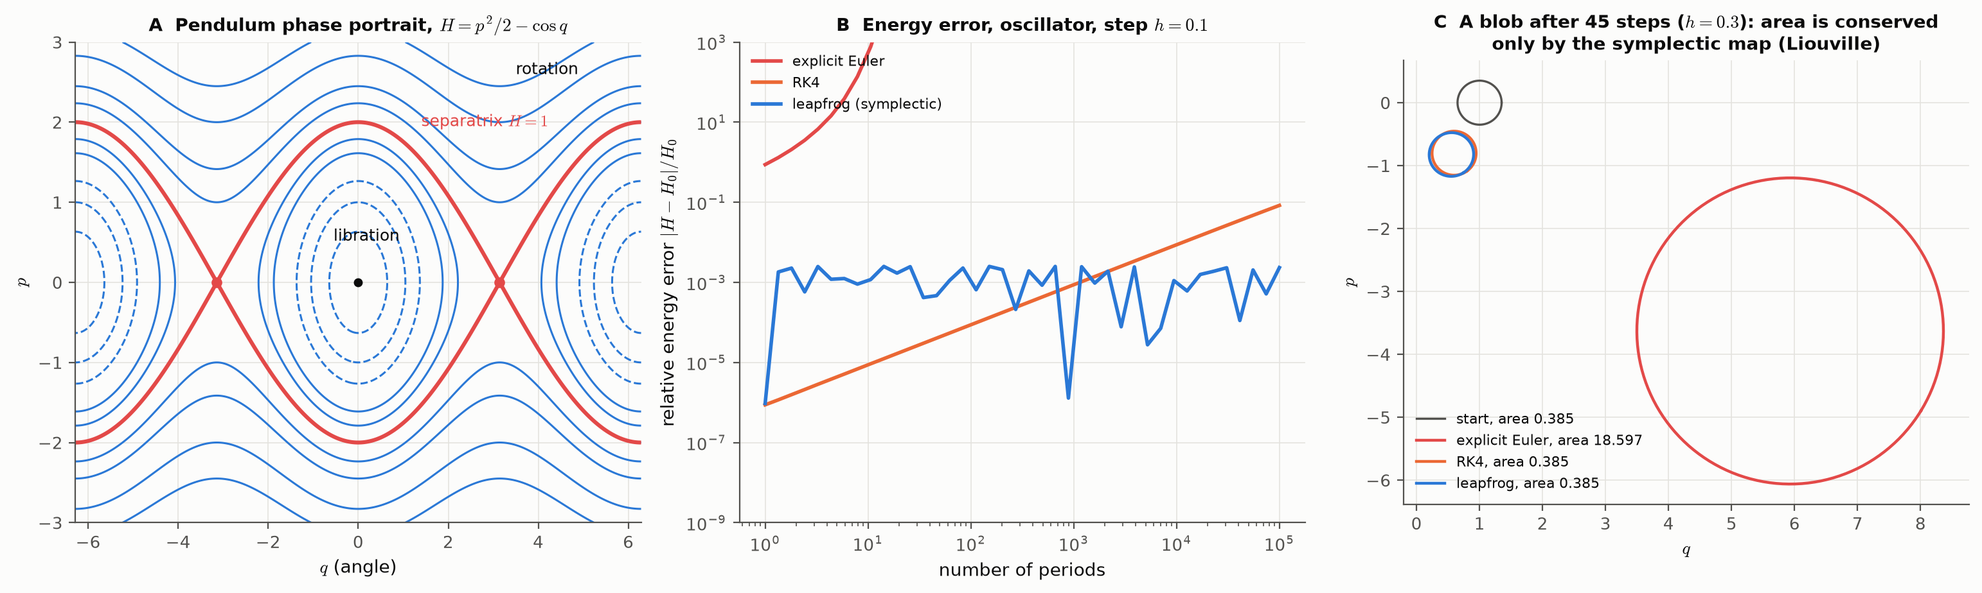
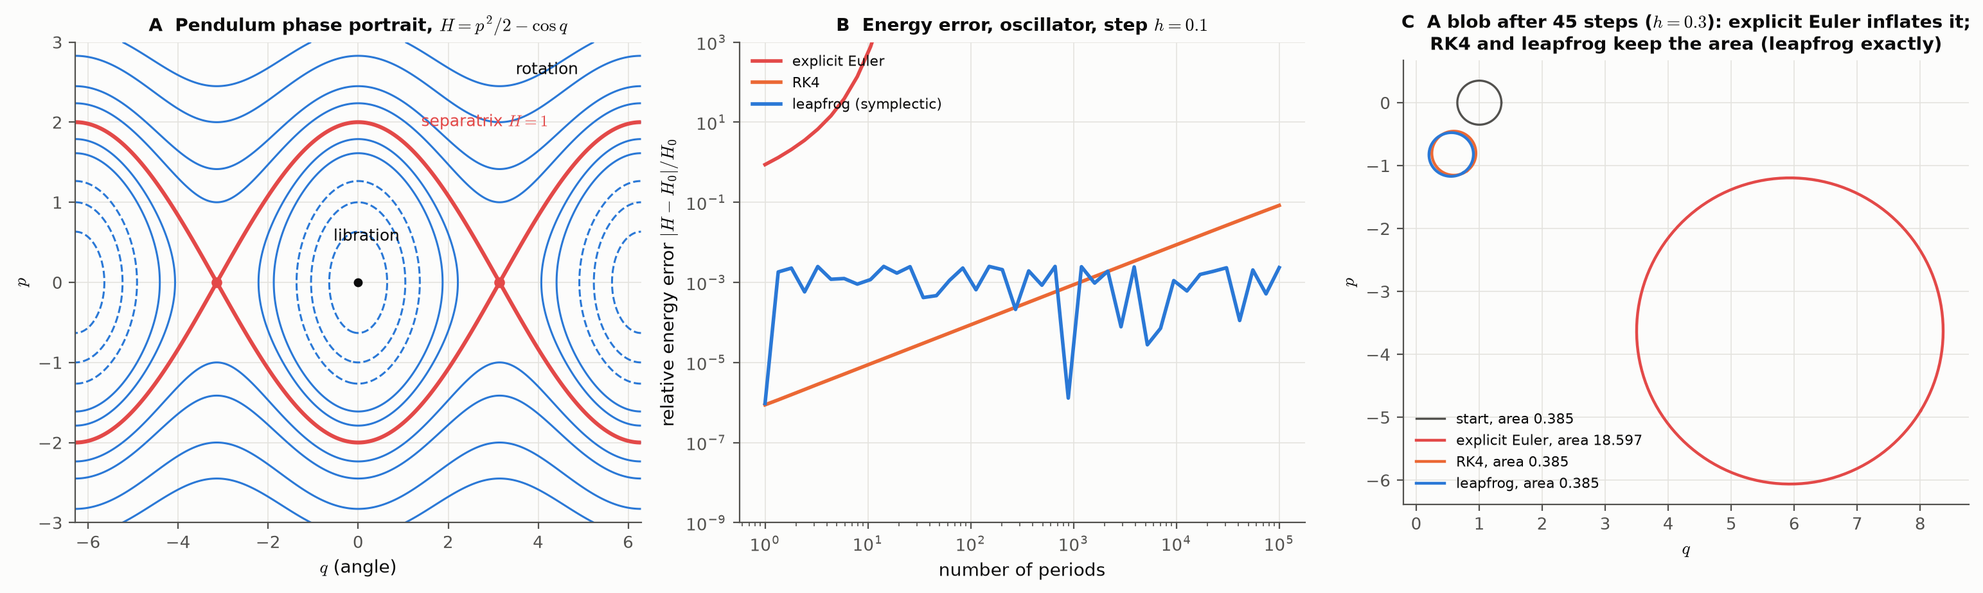
notes: 2026-11-07 21:17

diff --git a/Assets/interactive/cm09_hamiltonian_flow.html b/Assets/interactive/cm09_hamiltonian_flow.html
@@ -1,0 +1,126 @@
+<!doctype html><html lang=en><head><meta charset=utf-8><meta name=viewport content='width=device-width,initial-scale=1'><title>Hamiltonian flow in phase space: portraits, conservation and integrators</title><style>:root{--bg:#fcfcfb;--ink:#0b0b0b;--muted:#52514e;--grid:#e4e3df;--panel:#f3f2ee;--blue:#2a78d6;--orange:#eb6834;--aqua:#1baf7a;--red:#e34948;--violet:#6250d6;--gold:#c8961e}
+@media (prefers-color-scheme:dark){:root{--bg:#161616;--ink:#ececea;--muted:#a3a29d;--grid:#2e2e2c;--panel:#222221;--blue:#5aa0f0;--orange:#f58a5c;--aqua:#3fd09a;--red:#f26b6a;--violet:#8d7df0;--gold:#e3b445}}
+*{box-sizing:border-box}
+body{margin:0;background:var(--bg);color:var(--ink);font:14px/1.45 system-ui,-apple-system,Segoe UI,Roboto,sans-serif}
+#app{max-width:1060px;margin:0 auto;padding:14px 16px 24px}
+h1{font-size:18px;margin:0 0 2px;font-weight:650}
+.desc{color:var(--muted);margin:0 0 10px;max-width:880px}
+.grid{display:grid;gap:10px}
+.cvw{position:relative;background:var(--bg);border:1px solid var(--grid);border-radius:8px;overflow:hidden}
+canvas{display:block;width:100%}
+.ctl{display:grid;grid-template-columns:repeat(auto-fit,minmax(250px,1fr));gap:6px 18px;margin:10px 0;padding:10px 12px;background:var(--panel);border-radius:8px}
+.row{display:grid;grid-template-columns:minmax(80px,38%) 1fr 64px;align-items:center;gap:8px}
+.row label{color:var(--muted);font-size:13px}
+.row .v{font:12px ui-monospace,Menlo,Consolas,monospace;text-align:right}
+input[type=range]{width:100%;accent-color:var(--blue)}
+select,button{font:inherit;color:var(--ink);background:var(--bg);border:1px solid var(--grid);border-radius:6px;padding:3px 8px}
+button{cursor:pointer}button:hover{border-color:var(--blue)}
+.sep{grid-column:1/-1;font-weight:600;font-size:12px;color:var(--muted);text-transform:uppercase;letter-spacing:.05em;margin-top:4px}
+.out{margin-top:8px;padding:8px 12px;border-left:3px solid var(--blue);background:var(--panel);border-radius:0 6px 6px 0;font:13px/1.5 ui-monospace,Menlo,Consolas,monospace;white-space:pre-wrap}
+.note{color:var(--muted);font-size:12px;margin-top:6px}
+.err{background:#fde;color:#900;padding:8px;border:1px solid #c00;border-radius:6px;margin:8px 0;font:12px monospace;white-space:pre-wrap}
+.btns{display:flex;gap:8px;flex-wrap:wrap;margin:6px 0}
+</style></head><body><div id=app></div><script>
+/* shared helpers for the vault's interactive tools: no external dependencies */
+const $=(s,r=document)=>r.querySelector(s);
+const M={
+  linspace(a,b,n){const o=new Array(n);for(let i=0;i<n;i++)o[i]=a+(b-a)*i/(n-1);return o},
+  range(n){return Array.from({length:n},(_,i)=>i)},
+  clamp(x,a,b){return Math.min(b,Math.max(a,x))},
+  sum(a){let s=0;for(const x of a)s+=x;return s},
+  rk4(f,y,t,dt){const n=y.length,k1=f(t,y),y2=y.map((v,i)=>v+.5*dt*k1[i]),k2=f(t+.5*dt,y2),y3=y.map((v,i)=>v+.5*dt*k2[i]),k3=f(t+.5*dt,y3),y4=y.map((v,i)=>v+dt*k3[i]),k4=f(t+dt,y4);return y.map((v,i)=>v+dt/6*(k1[i]+2*k2[i]+2*k3[i]+k4[i]))},
+  rng(seed){let a=seed>>>0||1;return()=>{a|=0;a=a+0x6D2B79F5|0;let t=Math.imul(a^a>>>15,1|a);t=t+Math.imul(t^t>>>7,61|t)^t;return((t^t>>>14)>>>0)/4294967296}},
+  gauss(r){let u=0,v=0;while(!u)u=r();v=r();return Math.sqrt(-2*Math.log(u))*Math.cos(2*Math.PI*v)},
+  erf(x){const s=Math.sign(x);x=Math.abs(x);const t=1/(1+0.3275911*x);const y=1-(((((1.061405429*t-1.453152027)*t)+1.421413741)*t-0.284496736)*t+0.254829592)*t*Math.exp(-x*x);return s*y},
+  fmt(x,d=3){if(!isFinite(x))return String(x);const a=Math.abs(x);if(a!==0&&(a>=1e5||a<1e-3))return x.toExponential(2);return Number(x.toPrecision(d)).toString()},
+  hypot:Math.hypot,
+  // complex numbers as [re,im]
+  cadd(a,b){return[a[0]+b[0],a[1]+b[1]]},cmul(a,b){return[a[0]*b[0]-a[1]*b[1],a[0]*b[1]+a[1]*b[0]]},cexp(t){return[Math.cos(t),Math.sin(t)]},
+  // eigen of symmetric 2x2
+  sym2(a,b,d){const m=(a+d)/2,r=Math.hypot((a-d)/2,b);return[m-r,m+r]},
+};
+function col(n){return getComputedStyle(document.documentElement).getPropertyValue('--'+n).trim()}
+const C={get ink(){return col('ink')},get muted(){return col('muted')},get grid(){return col('grid')},get bg(){return col('bg')},get panel(){return col('panel')},
+ get blue(){return col('blue')},get orange(){return col('orange')},get aqua(){return col('aqua')},get red(){return col('red')},get violet(){return col('violet')},get gold(){return col('gold')}};
+class Plot{
+  constructor(canvas,o={}){this.c=canvas;this.o=Object.assign({xmin:0,xmax:1,ymin:0,ymax:1,xlabel:'',ylabel:'',title:'',grid:true,ml:54,mr:14,mt:24,mb:38,equal:false,axes:true},o);if(this.o.equal&&!o.ml){this.o.ml=this.o.mr=10;this.o.mt=this.o.mb=10}this.base={xmin:this.o.xmin,xmax:this.o.xmax,ymin:this.o.ymin,ymax:this.o.ymax};this.resize()}
+  equalize(){const o=this.o,b=this.base,pw=this.w-o.ml-o.mr,ph=this.h-o.mt-o.mb,sx=pw/(b.xmax-b.xmin),sy=ph/(b.ymax-b.ymin),s=Math.min(sx,sy),cx=(b.xmin+b.xmax)/2,cy=(b.ymin+b.ymax)/2;o.xmin=cx-pw/2/s;o.xmax=cx+pw/2/s;o.ymin=cy-ph/2/s;o.ymax=cy+ph/2/s}
+  set(o){Object.assign(this.o,o)}
+  resize(){const d=window.devicePixelRatio||1,w=this.c.clientWidth||600,h=this.c.clientHeight||320;this.c.width=Math.round(w*d);this.c.height=Math.round(h*d);this.g=this.c.getContext('2d');this.g.setTransform(d,0,0,d,0,0);this.w=w;this.h=h;if(this.o.equal)this.equalize()}
+  X(x){const o=this.o,pw=this.w-o.ml-o.mr;return o.ml+(x-o.xmin)/(o.xmax-o.xmin)*pw}
+  Y(y){const o=this.o,ph=this.h-o.mt-o.mb;return this.h-o.mb-(y-o.ymin)/(o.ymax-o.ymin)*ph}
+  ix(px){const o=this.o;return o.xmin+(px-o.ml)/(this.w-o.ml-o.mr)*(o.xmax-o.xmin)}
+  iy(py){const o=this.o;return o.ymin+(this.h-o.mb-py)/(this.h-o.mt-o.mb)*(o.ymax-o.ymin)}
+  clear(){const g=this.g;g.save();g.setTransform(1,0,0,1,0,0);g.clearRect(0,0,this.c.width,this.c.height);g.restore();g.fillStyle=C.bg;g.fillRect(0,0,this.w,this.h);if(this.o.axes)this.drawAxes()}
+  ticks(a,b,n=6){const span=b-a,raw=span/n,p=Math.pow(10,Math.floor(Math.log10(raw))),f=raw/p,st=(f<1.5?1:f<3?2:f<7?5:10)*p,out=[];for(let v=Math.ceil(a/st-1e-9)*st;v<=b+1e-9;v+=st)out.push(Math.abs(v)<st*1e-9?0:v);return out}
+  drawAxes(){const g=this.g,o=this.o;g.save();g.font='11px system-ui,sans-serif';g.lineWidth=1;
+    const xt=this.ticks(Math.min(o.xmin,o.xmax),Math.max(o.xmin,o.xmax)),yt=this.ticks(Math.min(o.ymin,o.ymax),Math.max(o.ymin,o.ymax));
+    if(o.grid){g.strokeStyle=C.grid;g.beginPath();for(const v of xt){const x=this.X(v);g.moveTo(x,o.mt);g.lineTo(x,this.h-o.mb)}for(const v of yt){const y=this.Y(v);g.moveTo(o.ml,y);g.lineTo(this.w-o.mr,y)}g.stroke()}
+    g.strokeStyle=C.muted;g.fillStyle=C.muted;g.beginPath();g.moveTo(o.ml,o.mt);g.lineTo(o.ml,this.h-o.mb);g.lineTo(this.w-o.mr,this.h-o.mb);g.stroke();
+    g.textAlign='center';g.textBaseline='top';for(const v of xt)g.fillText(M.fmt(v,3),this.X(v),this.h-o.mb+4);
+    g.textAlign='right';g.textBaseline='middle';for(const v of yt)g.fillText(M.fmt(v,3),o.ml-5,this.Y(v));
+    g.fillStyle=C.ink;g.textAlign='center';g.textBaseline='bottom';if(o.xlabel)g.fillText(o.xlabel,o.ml+(this.w-o.ml-o.mr)/2,this.h-3);
+    if(o.ylabel){g.save();g.translate(12,o.mt+(this.h-o.mt-o.mb)/2);g.rotate(-Math.PI/2);g.textBaseline='top';g.fillText(o.ylabel,0,0);g.restore()}
+    if(o.title){g.font='600 12px system-ui,sans-serif';g.textAlign='left';g.textBaseline='top';g.fillText(o.title,o.ml+4,4)}g.restore()}
+  clip(){const g=this.g,o=this.o;g.save();g.beginPath();g.rect(o.ml,o.mt,this.w-o.ml-o.mr,this.h-o.mt-o.mb);g.clip()}
+  unclip(){this.g.restore()}
+  line(xs,ys,color=C.blue,lw=2,dash=null){const g=this.g;this.clip();g.strokeStyle=color;g.lineWidth=lw;g.setLineDash(dash||[]);g.beginPath();let st=false;for(let i=0;i<xs.length;i++){const y=ys[i];if(!isFinite(y)){st=false;continue}const px=this.X(xs[i]),py=this.Y(y);if(!st){g.moveTo(px,py);st=true}else g.lineTo(px,py)}g.stroke();g.setLineDash([]);this.unclip()}
+  fn(f,color,lw,dash,n=400){const xs=M.linspace(this.o.xmin,this.o.xmax,n);this.line(xs,xs.map(f),color,lw,dash)}
+  dots(xs,ys,color=C.orange,r=3){const g=this.g;this.clip();g.fillStyle=color;for(let i=0;i<xs.length;i++){g.beginPath();g.arc(this.X(xs[i]),this.Y(ys[i]),r,0,7);g.fill()}this.unclip()}
+  dot(x,y,color=C.orange,r=5){this.dots([x],[y],color,r)}
+  vline(x,color=C.muted,dash=[4,3]){const g=this.g;g.save();g.strokeStyle=color;g.setLineDash(dash);g.beginPath();g.moveTo(this.X(x),this.o.mt);g.lineTo(this.X(x),this.h-this.o.mb);g.stroke();g.restore()}
+  hline(y,color=C.muted,dash=[4,3]){const g=this.g;g.save();g.strokeStyle=color;g.setLineDash(dash);g.beginPath();g.moveTo(this.o.ml,this.Y(y));g.lineTo(this.w-this.o.mr,this.Y(y));g.stroke();g.restore()}
+  text(s,x,y,color=C.ink,align='left',font='12px system-ui,sans-serif'){const g=this.g;g.save();g.fillStyle=color;g.font=font;g.textAlign=align;g.textBaseline='middle';g.fillText(s,this.X(x),this.Y(y));g.restore()}
+  ptext(s,px,py,color=C.ink,align='left',font='12px system-ui,sans-serif'){const g=this.g;g.save();g.fillStyle=color;g.font=font;g.textAlign=align;g.textBaseline='middle';g.fillText(s,px,py);g.restore()}
+  arrow(x0,y0,x1,y1,color=C.ink,lw=2,head=8){const g=this.g,a=this.X(x0),b=this.Y(y0),c=this.X(x1),d=this.Y(y1),th=Math.atan2(d-b,c-a);g.save();g.strokeStyle=color;g.fillStyle=color;g.lineWidth=lw;g.beginPath();g.moveTo(a,b);g.lineTo(c,d);g.stroke();g.beginPath();g.moveTo(c,d);g.lineTo(c-head*Math.cos(th-.4),d-head*Math.sin(th-.4));g.lineTo(c-head*Math.cos(th+.4),d-head*Math.sin(th+.4));g.closePath();g.fill();g.restore()}
+  area(xs,y1,y2,color){const g=this.g;this.clip();g.fillStyle=color;g.beginPath();for(let i=0;i<xs.length;i++)g[i?'lineTo':'moveTo'](this.X(xs[i]),this.Y(y1[i]));for(let i=xs.length-1;i>=0;i--)g.lineTo(this.X(xs[i]),this.Y(y2[i]));g.closePath();g.fill();this.unclip()}
+  poly(pts,fill,stroke,lw=1.5){const g=this.g;g.save();g.beginPath();pts.forEach((p,i)=>g[i?'lineTo':'moveTo'](this.X(p[0]),this.Y(p[1])));g.closePath();if(fill){g.fillStyle=fill;g.fill()}if(stroke){g.strokeStyle=stroke;g.lineWidth=lw;g.stroke()}g.restore()}
+  circle(x,y,rPix,fill,stroke,lw=1.5){const g=this.g;g.save();g.beginPath();g.arc(this.X(x),this.Y(y),rPix,0,7);if(fill){g.fillStyle=fill;g.fill()}if(stroke){g.strokeStyle=stroke;g.lineWidth=lw;g.stroke()}g.restore()}
+  legend(items,px,py){const g=this.g;g.save();g.font='12px system-ui,sans-serif';g.textBaseline='middle';let y=py;for(const [t,c,d] of items){g.strokeStyle=c;g.lineWidth=2.5;g.setLineDash(d||[]);g.beginPath();g.moveTo(px,y);g.lineTo(px+22,y);g.stroke();g.setLineDash([]);g.fillStyle=C.ink;g.textAlign='left';g.fillText(t,px+28,y);y+=16}g.restore()}
+  heat(f,nx,ny,cmap){const g=this.g,o=this.o;const w=(this.w-o.ml-o.mr)/nx,h=(this.h-o.mt-o.mb)/ny;for(let i=0;i<nx;i++)for(let j=0;j<ny;j++){const x=o.xmin+(i+.5)/nx*(o.xmax-o.xmin),y=o.ymin+(j+.5)/ny*(o.ymax-o.ymin);g.fillStyle=cmap(f(x,y));g.fillRect(o.ml+i*w,this.h-o.mb-(j+1)*h,w+1,h+1)}}
+}
+const cmaps={
+  div(v){v=M.clamp(v,-1,1);const t=Math.abs(v);if(v<0)return`rgb(${255-Math.round(190*t)},${255-Math.round(140*t)},255)`;return`rgb(255,${255-Math.round(150*t)},${255-Math.round(200*t)})`},
+  seq(v){v=M.clamp(v,0,1);return`rgb(${Math.round(250-200*v)},${Math.round(250-150*v*v)},${Math.round(255-120*v)})`},
+};
+const ui={
+  root:null,ctl:null,out:null,
+  init(title,desc){const a=document.getElementById('app');a.innerHTML='';const h=document.createElement('h1');h.textContent=title;const p=document.createElement('p');p.className='desc';p.innerHTML=desc||'';a.append(h,p);this.root=a;this.grid=null;this.ctl=null;this.out=null;this.plots=[];this.redraws=[];},
+  gridOf(cols,heights){const g=document.createElement('div');g.className='grid';g.style.gridTemplateColumns=`repeat(${cols},minmax(0,1fr))`;this.root.append(g);this.grid=g;return g},
+  canvas(h=320,opts={}){if(!this.grid)this.gridOf(1);const w=document.createElement('div');w.className='cvw';const c=document.createElement('canvas');c.style.height=h+'px';w.append(c);this.grid.append(w);const P=new Plot(c,opts);this.plots.push(P);return P},
+  controls(){if(!this.ctl){const d=document.createElement('div');d.className='ctl';this.root.append(d);this.ctl=d}return this.ctl},
+  sep(t){const d=document.createElement('div');d.className='sep';d.textContent=t;this.controls().append(d)},
+  slider(label,min,max,step,val,cb,fmt){const r=document.createElement('div');r.className='row';const l=document.createElement('label');l.textContent=label;const i=document.createElement('input');i.type='range';i.min=min;i.max=max;i.step=step;i.value=val;const v=document.createElement('span');v.className='v';const o={get value(){return parseFloat(i.value)},set value(x){i.value=x;show()},el:i};const show=()=>{v.textContent=fmt?fmt(o.value):M.fmt(o.value,4)};i.addEventListener('input',()=>{show();cb&&cb(o.value)});show();r.append(l,i,v);this.controls().append(r);return o},
+  select(label,opts,cb,val){const r=document.createElement('div');r.className='row';const l=document.createElement('label');l.textContent=label;const s=document.createElement('select');opts.forEach(([k,t])=>{const e=document.createElement('option');e.value=k;e.textContent=t;s.append(e)});if(val!==undefined)s.value=val;s.addEventListener('change',()=>cb&&cb(s.value));const sp=document.createElement('span');r.append(l,s,sp);this.controls().append(r);return{get value(){return s.value},set value(x){s.value=x},el:s}},
+  check(label,val,cb){const r=document.createElement('div');r.className='row';const l=document.createElement('label');l.textContent=label;const i=document.createElement('input');i.type='checkbox';i.checked=!!val;i.addEventListener('change',()=>cb&&cb(i.checked));const sp=document.createElement('span');r.append(l,i,sp);this.controls().append(r);return{get value(){return i.checked},el:i}},
+  button(label,cb){let b=this.btns;if(!b){b=document.createElement('div');b.className='btns';this.root.append(b);this.btns=b}const e=document.createElement('button');e.textContent=label;e.addEventListener('click',cb);b.append(e);return e},
+  readout(){if(!this.out){const o=document.createElement('div');o.className='out';this.root.append(o);this.out=o}return this.out},
+  note(t){const n=document.createElement('div');n.className='note';n.innerHTML=t;this.root.append(n)},
+  onresize(f){this.redraws.push(f)},
+};
+window.addEventListener('resize',()=>{for(const P of ui.plots)P.resize();for(const f of ui.redraws)f()});
+function loop(step){let run=true,last=performance.now(),b=ui.button('pause',()=>{run=!run;b.textContent=run?'pause':'▶ play';if(run){last=performance.now();req()}});let id;function f(t){if(!run)return;const dt=Math.min(.05,Math.max(0,(t-last)/1000));last=t;step(dt,t/1000);id=requestAnimationFrame(f)}function req(){id=requestAnimationFrame(f)}req();return{toggle(){b.click()}}}
+window.addEventListener('error',e=>{const d=document.createElement('div');d.className='err';d.textContent='JS error: '+e.message+' ('+(e.filename||'').split('/').pop()+':'+e.lineno+')';(document.getElementById('app')||document.body).prepend(d)});
+
+(function(){
+const META={"title": "Hamiltonian flow in phase space: portraits, conservation and integrators", "desc": "Hamilton's equations q\u0307 = \u2202H/\u2202p, \u1e57 = \u2212\u2202H/\u2202q turn the dynamics into a flow on the (q, p) plane along the level curves of H. Choose a system (oscillator, pendulum, double well), click to launch a trajectory and a small blob of initial conditions, and integrate with a numerical method: the exact flow conserves H and the blob's area (Liouville); the symplectic leapfrog conserves the area exactly and the energy up to a bounded error; RK4 loses energy slowly; explicit Euler gains it and inflates the blob.", "vault": "CM", "chapters": ["CM09 Hamilton's Equations and Poisson Brackets", "SM02 Phase Space Liouville and the Microcanonical Ensemble"], "tryit": "Oscillator, h = 0.3: explicit Euler spirals outward and the blob's area grows by (1+h\u00b2) per step; leapfrog keeps a closed orbit and area ratio 1.0000; RK4 is accurate but slowly shrinks. Pendulum: start just inside and just outside the separatrix H = 1 to see libration vs rotation.", "id": "cm09_hamiltonian_flow"};ui.init(META.title,META.desc);
+ui.gridOf(2);const P1=ui.canvas(360,{xmin:-4,xmax:4,ymin:-3,ymax:3,xlabel:'q',ylabel:'p',title:'phase space (click to launch a trajectory)'});const P2=ui.canvas(360,{xmin:0,xmax:400,ymin:-4,ymax:1,xlabel:'step number',ylabel:'log₁₀ |H − H₀|',title:'energy error of the numerical flow'});
+const sys=ui.select('system',[['h','harmonic oscillator H = (p² + q²)/2'],['p','pendulum H = p²/2 − cos q'],['d','double well H = p²/2 + q⁴/4 − q²/2']],reset,'h'),integ=ui.select('integrator',[['leap','leapfrog (symplectic)'],['rk4','RK4'],['eul','explicit Euler'],['seul','symplectic Euler']],reset,'leap'),sh=ui.slider('step size h',0.02,0.6,0.01,0.3,reset),sq=ui.slider('start q₀',-3.5,3.5,0.05,1,reset),sp=ui.slider('start p₀',-2.5,2.5,0.05,0,reset);
+const out=ui.readout();let traj=[],blob=[],A0=0,errs=[],H0=0;
+const V=(q)=>sys.value==='h'?q*q/2:sys.value==='p'?-Math.cos(q):q**4/4-q*q/2,dV=(q)=>sys.value==='h'?q:sys.value==='p'?Math.sin(q):q**3-q,H=(q,p)=>p*p/2+V(q);
+function step(s,h){const [q,p]=s;switch(integ.value){case'eul':return[q+h*p,p-h*dV(q)];case'seul':{const pn=p-h*dV(q);return[q+h*pn,pn]}case'leap':{let pp=p-h/2*dV(q);const qn=q+h*pp;pp=pp-h/2*dV(qn);return[qn,pp]}default:{const f=(a)=>[a[1],-dV(a[0])],k1=f(s),k2=f([q+h/2*k1[0],p+h/2*k1[1]]),k3=f([q+h/2*k2[0],p+h/2*k2[1]]),k4=f([q+h*k3[0],p+h*k3[1]]);return[q+h/6*(k1[0]+2*k2[0]+2*k3[0]+k4[0]),p+h/6*(k1[1]+2*k2[1]+2*k3[1]+k4[1])]}}}
+function area(b){let s=0;for(let i=0;i<b.length;i++){const a=b[i],c=b[(i+1)%b.length];s+=a[0]*c[1]-c[0]*a[1]}return Math.abs(s)/2}
+function reset(){const h=sh.value,q0=sq.value,p0=sp.value;traj=[[q0,p0]];blob=M.range(160).map(i=>[q0+0.25*Math.cos(2*Math.PI*i/160),p0+0.25*Math.sin(2*Math.PI*i/160)]);A0=area(blob);H0=H(q0,p0);errs=[];let s=[q0,p0];for(let i=0;i<400;i++){s=step(s,h);traj.push(s.slice());errs.push(Math.log10(Math.abs(H(s[0],s[1])-H0)+1e-14))}draw()}
+P1.c.addEventListener('click',e=>{const r=P1.c.getBoundingClientRect();sq.value=Math.max(-3.5,Math.min(3.5,P1.ix(e.clientX-r.left)));sp.value=Math.max(-2.5,Math.min(2.5,P1.iy(e.clientY-r.top)));reset()});
+let nb=0;function draw(){P1.clear();const qs=M.linspace(-4,4,60),ps=M.linspace(-3,3,60),Gc=P1.g;
+ // exact level curves (background) by sampling H
+ const lev=sys.value==='h'?[0.25,0.75,1.5,2.5,3.5,4.5]:sys.value==='p'?[-0.7,-0.3,0.3,0.7,1,1.5,2.5,3.5]:[-0.2,-0.1,0.1,0.5,1.0,2.0,3.5];lev.forEach(L=>{const pts=[];for(let i=0;i<=200;i++){const q=-4+8*i/200;const p2=2*(L-V(q));if(p2>=0)pts.push([q,Math.sqrt(p2)])}P1.line(pts.map(a=>a[0]),pts.map(a=>a[1]),L===1&&sys.value==='p'?C.red:C.grid,L===1&&sys.value==='p'?2:1.2);const pm=pts.map(a=>[a[0],-a[1]]);P1.line(pm.map(a=>a[0]),pm.map(a=>a[1]),L===1&&sys.value==='p'?C.red:C.grid,L===1&&sys.value==='p'?2:1.2)});
+ P1.line(traj.map(a=>a[0]),traj.map(a=>a[1]),C.blue,1.8);P1.poly(blob,'rgba(235,104,52,0.25)',C.orange,1.8);P1.dot(traj[0][0],traj[0][1],C.ink,5);
+ P2.set({xmax:400});P2.clear();P2.line(M.range(errs.length),errs,C.blue,2.4);
+ const Hn=H(traj[traj.length-1][0],traj[traj.length-1][1]);const detEst=(()=>{const e=1e-6,h=sh.value;const a=step([sq.value+e,sp.value],h),b=step([sq.value-e,sp.value],h),c=step([sq.value,sp.value+e],h),d=step([sq.value,sp.value-e],h);return((a[0]-b[0])*(c[1]-d[1])-(c[0]-d[0])*(a[1]-b[1]))/(4*e*e)})();
+ out.textContent=`integrator: ${integ.value}, h = ${sh.value}: after 400 steps H = ${M.fmt(Hn,5)} (H₀ = ${M.fmt(H0,5)}), energy error ${M.fmt(Math.abs(Hn-H0),3)}   one-step Jacobian determinant = ${M.fmt(detEst,7)} (area change per step; exact Hamiltonian flow: 1)\nblob area now / initial = ${M.fmt(area(blob)/A0,5)} (evolves while the animation runs; Liouville: 1)   ${integ.value==='leap'||integ.value==='seul'?'symplectic: area exactly preserved, energy error bounded':integ.value==='eul'?'explicit Euler: det J = 1 + h² for the oscillator: areas and energy grow without bound':'RK4: det J = 1 − O(h⁵): very small but systematic drift'}`}
+loop((dt)=>{const h=sh.value;blob=blob.map(b=>step(b,h));nb++;if(nb>150){nb=0;const q0=sq.value,p0=sp.value;blob=M.range(160).map(i=>[q0+0.25*Math.cos(2*Math.PI*i/160),p0+0.25*Math.sin(2*Math.PI*i/160)])}draw()});reset();for(let i=0;i<40;i++)blob=blob.map(b=>step(b,sh.value));draw();
+ui.note('CM09 / LL §40, §42: Hamilton\'s equations (40.4), Liouville\'s theorem (CM10). For the oscillator one explicit-Euler step has det J = 1 + h² (0.1: 1.0100), the leapfrog map has det J = 1 exactly and RK4 has det J = 0.99999999 at h = 0.1 (scripts/cm09_numbers.py); after 10⁵ periods at h = 0.1 RK4 has lost 8.3 % of the energy while leapfrog stays within 1.25×10⁻³.');
+
+})();
+</script></body></html>

diff --git a/scripts/interactive/tools/cm09_hamiltonian_flow.js b/scripts/interactive/tools/cm09_hamiltonian_flow.js
@@ -1,0 +1,18 @@
+//META {"title":"Hamiltonian flow in phase space: portraits, conservation and integrators","desc":"Hamilton's equations q̇ = ∂H/∂p, ṗ = −∂H/∂q turn the dynamics into a flow on the (q, p) plane along the level curves of H. Choose a system (oscillator, pendulum, double well), click to launch a trajectory and a small blob of initial conditions, and integrate with a numerical method: the exact flow conserves H and the blob's area (Liouville); the symplectic leapfrog conserves the area exactly and the energy up to a bounded error; RK4 loses energy slowly; explicit Euler gains it and inflates the blob.","vault":"CM","chapters":["CM09 Hamilton's Equations and Poisson Brackets","SM02 Phase Space Liouville and the Microcanonical Ensemble"],"tryit":"Oscillator, h = 0.3: explicit Euler spirals outward and the blob's area grows by (1+h²) per step; leapfrog keeps a closed orbit and area ratio 1.0000; RK4 is accurate but slowly shrinks. Pendulum: start just inside and just outside the separatrix H = 1 to see libration vs rotation."}
+ui.gridOf(2);const P1=ui.canvas(360,{xmin:-4,xmax:4,ymin:-3,ymax:3,xlabel:'q',ylabel:'p',title:'phase space (click to launch a trajectory)'});const P2=ui.canvas(360,{xmin:0,xmax:400,ymin:-4,ymax:1,xlabel:'step number',ylabel:'log₁₀ |H − H₀|',title:'energy error of the numerical flow'});
+const sys=ui.select('system',[['h','harmonic oscillator H = (p² + q²)/2'],['p','pendulum H = p²/2 − cos q'],['d','double well H = p²/2 + q⁴/4 − q²/2']],reset,'h'),integ=ui.select('integrator',[['leap','leapfrog (symplectic)'],['rk4','RK4'],['eul','explicit Euler'],['seul','symplectic Euler']],reset,'leap'),sh=ui.slider('step size h',0.02,0.6,0.01,0.3,reset),sq=ui.slider('start q₀',-3.5,3.5,0.05,1,reset),sp=ui.slider('start p₀',-2.5,2.5,0.05,0,reset);
+const out=ui.readout();let traj=[],blob=[],A0=0,errs=[],H0=0;
+const V=(q)=>sys.value==='h'?q*q/2:sys.value==='p'?-Math.cos(q):q**4/4-q*q/2,dV=(q)=>sys.value==='h'?q:sys.value==='p'?Math.sin(q):q**3-q,H=(q,p)=>p*p/2+V(q);
+function step(s,h){const [q,p]=s;switch(integ.value){case'eul':return[q+h*p,p-h*dV(q)];case'seul':{const pn=p-h*dV(q);return[q+h*pn,pn]}case'leap':{let pp=p-h/2*dV(q);const qn=q+h*pp;pp=pp-h/2*dV(qn);return[qn,pp]}default:{const f=(a)=>[a[1],-dV(a[0])],k1=f(s),k2=f([q+h/2*k1[0],p+h/2*k1[1]]),k3=f([q+h/2*k2[0],p+h/2*k2[1]]),k4=f([q+h*k3[0],p+h*k3[1]]);return[q+h/6*(k1[0]+2*k2[0]+2*k3[0]+k4[0]),p+h/6*(k1[1]+2*k2[1]+2*k3[1]+k4[1])]}}}
+function area(b){let s=0;for(let i=0;i<b.length;i++){const a=b[i],c=b[(i+1)%b.length];s+=a[0]*c[1]-c[0]*a[1]}return Math.abs(s)/2}
+function reset(){const h=sh.value,q0=sq.value,p0=sp.value;traj=[[q0,p0]];blob=M.range(160).map(i=>[q0+0.25*Math.cos(2*Math.PI*i/160),p0+0.25*Math.sin(2*Math.PI*i/160)]);A0=area(blob);H0=H(q0,p0);errs=[];let s=[q0,p0];for(let i=0;i<400;i++){s=step(s,h);traj.push(s.slice());errs.push(Math.log10(Math.abs(H(s[0],s[1])-H0)+1e-14))}draw()}
+P1.c.addEventListener('click',e=>{const r=P1.c.getBoundingClientRect();sq.value=Math.max(-3.5,Math.min(3.5,P1.ix(e.clientX-r.left)));sp.value=Math.max(-2.5,Math.min(2.5,P1.iy(e.clientY-r.top)));reset()});
+let nb=0;function draw(){P1.clear();const qs=M.linspace(-4,4,60),ps=M.linspace(-3,3,60),Gc=P1.g;
+ // exact level curves (background) by sampling H
+ const lev=sys.value==='h'?[0.25,0.75,1.5,2.5,3.5,4.5]:sys.value==='p'?[-0.7,-0.3,0.3,0.7,1,1.5,2.5,3.5]:[-0.2,-0.1,0.1,0.5,1.0,2.0,3.5];lev.forEach(L=>{const pts=[];for(let i=0;i<=200;i++){const q=-4+8*i/200;const p2=2*(L-V(q));if(p2>=0)pts.push([q,Math.sqrt(p2)])}P1.line(pts.map(a=>a[0]),pts.map(a=>a[1]),L===1&&sys.value==='p'?C.red:C.grid,L===1&&sys.value==='p'?2:1.2);const pm=pts.map(a=>[a[0],-a[1]]);P1.line(pm.map(a=>a[0]),pm.map(a=>a[1]),L===1&&sys.value==='p'?C.red:C.grid,L===1&&sys.value==='p'?2:1.2)});
+ P1.line(traj.map(a=>a[0]),traj.map(a=>a[1]),C.blue,1.8);P1.poly(blob,'rgba(235,104,52,0.25)',C.orange,1.8);P1.dot(traj[0][0],traj[0][1],C.ink,5);
+ P2.set({xmax:400});P2.clear();P2.line(M.range(errs.length),errs,C.blue,2.4);
+ const Hn=H(traj[traj.length-1][0],traj[traj.length-1][1]);const detEst=(()=>{const e=1e-6,h=sh.value;const a=step([sq.value+e,sp.value],h),b=step([sq.value-e,sp.value],h),c=step([sq.value,sp.value+e],h),d=step([sq.value,sp.value-e],h);return((a[0]-b[0])*(c[1]-d[1])-(c[0]-d[0])*(a[1]-b[1]))/(4*e*e)})();
+ out.textContent=`integrator: ${integ.value}, h = ${sh.value}: after 400 steps H = ${M.fmt(Hn,5)} (H₀ = ${M.fmt(H0,5)}), energy error ${M.fmt(Math.abs(Hn-H0),3)}   one-step Jacobian determinant = ${M.fmt(detEst,7)} (area change per step; exact Hamiltonian flow: 1)\nblob area now / initial = ${M.fmt(area(blob)/A0,5)} (evolves while the animation runs; Liouville: 1)   ${integ.value==='leap'||integ.value==='seul'?'symplectic: area exactly preserved, energy error bounded':integ.value==='eul'?'explicit Euler: det J = 1 + h² for the oscillator: areas and energy grow without bound':'RK4: det J = 1 − O(h⁵): very small but systematic drift'}`}
+loop((dt)=>{const h=sh.value;blob=blob.map(b=>step(b,h));nb++;if(nb>150){nb=0;const q0=sq.value,p0=sp.value;blob=M.range(160).map(i=>[q0+0.25*Math.cos(2*Math.PI*i/160),p0+0.25*Math.sin(2*Math.PI*i/160)])}draw()});reset();for(let i=0;i<40;i++)blob=blob.map(b=>step(b,sh.value));draw();
+ui.note('CM09 / LL §40, §42: Hamilton\'s equations (40.4), Liouville\'s theorem (CM10). For the oscillator one explicit-Euler step has det J = 1 + h² (0.1: 1.0100), the leapfrog map has det J = 1 exactly and RK4 has det J = 0.99999999 at h = 0.1 (scripts/cm09_numbers.py); after 10⁵ periods at h = 0.1 RK4 has lost 8.3 % of the energy while leapfrog stays within 1.25×10⁻³.');

diff --git a/scripts/fig_cm09.py b/scripts/fig_cm09.py
@@ -31,5 +31,5 @@ for name,st,col in (("explicit Euler",step_euler,RED),("RK4",step_rk4,ORANGE),("
     b=b0.copy()
     for i in range(n): b=np.array([st(x,y,h) for x,y in b])
     C.plot(b[:,0],b[:,1],color=col,lw=1.6,label="%s, area %.3f"%(name,area(b)))
-C.set_aspect("equal");C.legend(fontsize=8,loc="lower left");C.set_xlabel("$q$");C.set_ylabel("$p$");C.set_title("C  A blob after %d steps ($h=0.3$): area is conserved\nonly by the symplectic map (Liouville)"%n,fontsize=10)
+C.set_aspect("equal");C.legend(fontsize=8,loc="lower left");C.set_xlabel("$q$");C.set_ylabel("$p$");C.set_title("C  A blob after %d steps ($h=0.3$): explicit Euler inflates it;\nRK4 and leapfrog keep the area (leapfrog exactly)"%n,fontsize=10)
 fig.tight_layout();save(fig,"fig_cm09_hamilton")
